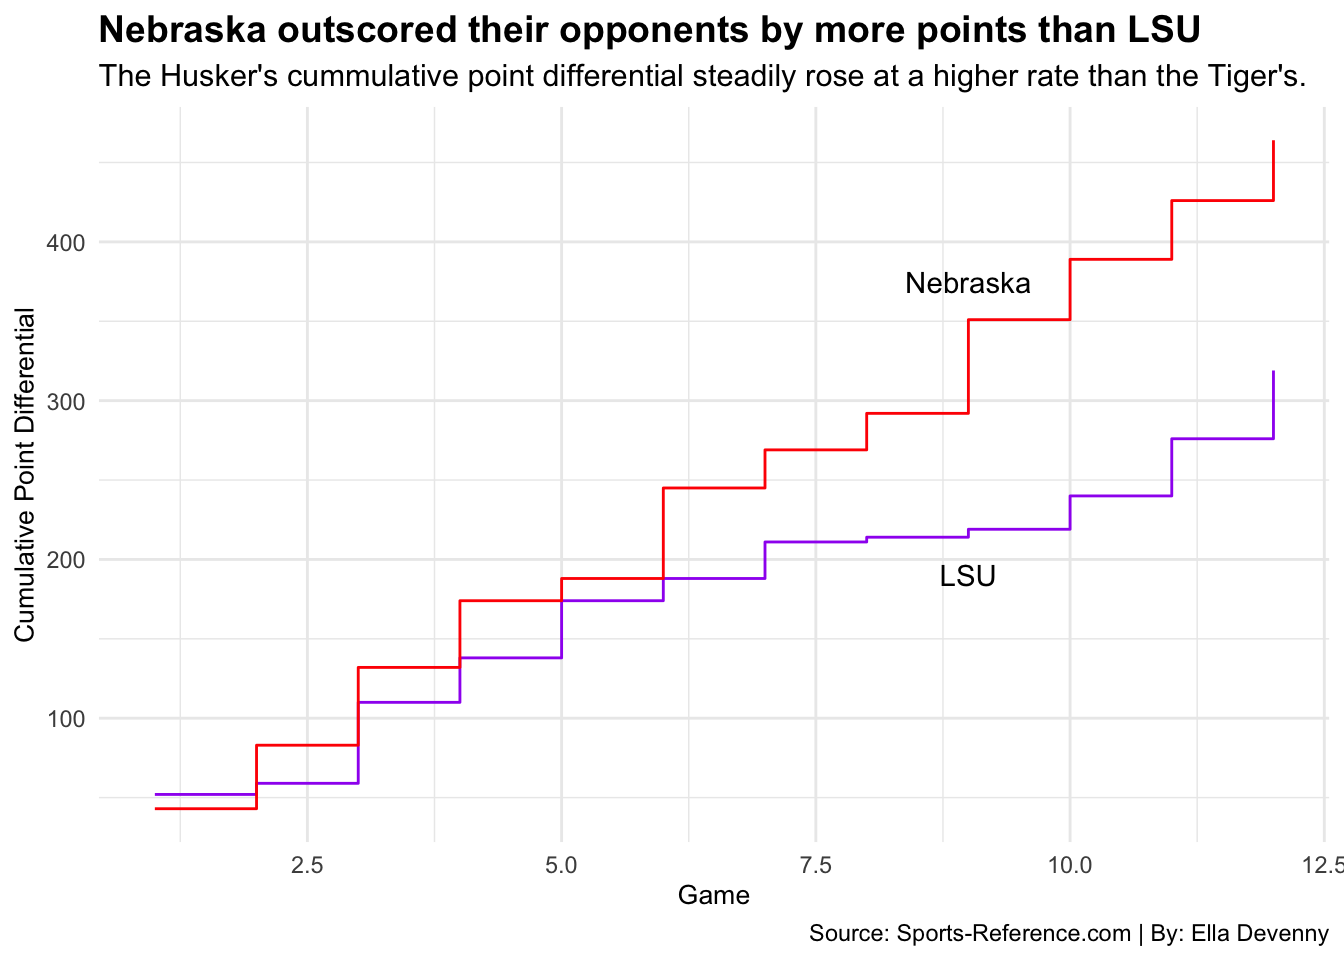
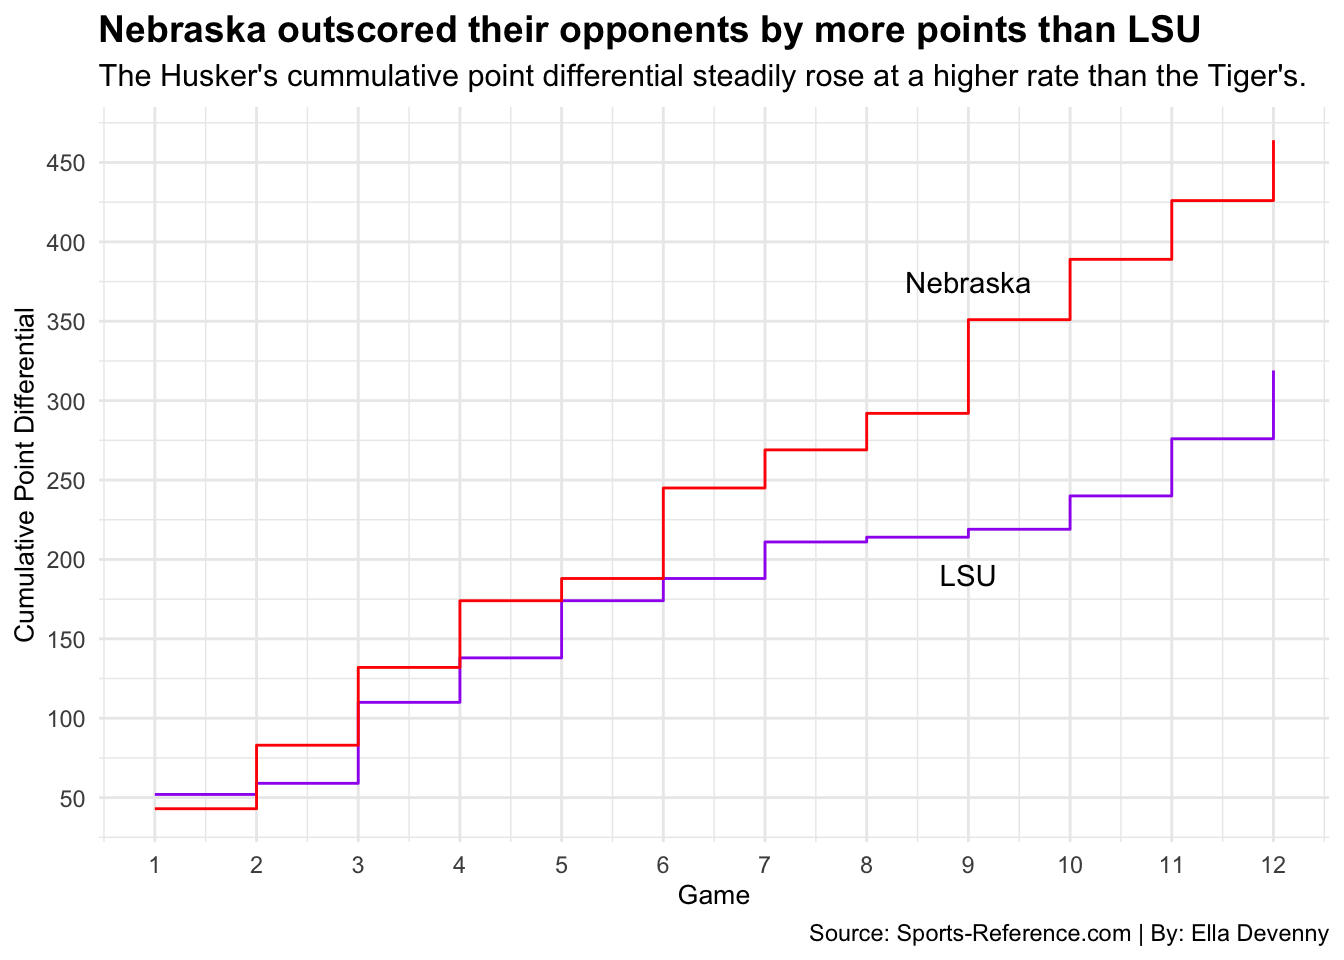
Making edits on my blog.

diff --git a/2021/04/18/the-1995-nebraska-huskers-vs-the-2019-lsu-tigers/index.html b/2021/04/18/the-1995-nebraska-huskers-vs-the-2019-lsu-tigers/index.html
@@ -191,8 +191,8 @@ NEBoffenseyards %&gt;%
 <p>Something to point out, is that Nebraska’s offense yards came primarily from rushing, while LSU’s came primarily from passing. Different offensive strategies, but they both got the job done.</p>
 <pre class="r"><code>barLSU &lt;- ggplot(LSUoffensewide, aes(x=Split, weight=Yards, fill=Type)) +
   geom_bar() +
-  labs(title=&quot;LSU Offense vs. Nebraska Offense: Passing or Rushing?&quot;,
-       subtitle=&quot;The Tiger&#39;s gained more passing yards, where the Husker&#39;s gained more rushing yards.&quot;,
+  labs(title=&quot;Two national champions with characteristically different offenses&quot;,
+       subtitle=&quot;LSU gained more passing yards, where Nebraska gained more rushing yards.&quot;,
        x=&quot;LSU (568.9 yards per game)&quot;,
        y=&quot;Number of Yards&quot;,
        caption = &quot;&quot;) + 
@@ -201,7 +201,7 @@ NEBoffenseyards %&gt;%
     plot.title = element_text(size = 14, face =&quot;bold&quot;),
     axis.title = element_text(size = 10),
     plot.subtitle = element_text(size = 12),
-    panel.grid.minor = element_blank()
+    panel.grid.minor = element_blank(),
   )
   
 
@@ -253,7 +253,9 @@ difflogLSU &lt;- difflogLSU %&gt;%
   theme_minimal() +
   theme(plot.title = element_text(size = 14, face = &quot;bold&quot;),
         axis.title = element_text(size=10),
-        plot.subtitle = element_text(size=11.5))</code></pre>
+        plot.subtitle = element_text(size=11.5)) +
+  scale_x_continuous(breaks = c(1,2,3,4,5,6,7,8,9,10,11,12)) +
+  scale_y_continuous(breaks=c(50,100,150,200,250,300,350,400,450))</code></pre>
 <p><img src="http://elladevenny.github.io/2021/04/18/the-1995-nebraska-huskers-vs-the-2019-lsu-tigers/index_files/figure-html/unnamed-chunk-7-1.png" width="672" /></p>
 <p>Next, I am going to create a dumbbell chart to compare the defensive stats of each team. First, I am going to create a couple new datasets to work with, that show the offensive stats of both teams in one and the defensive stats of both teams in another. This way, I can focus on just the defensive stats for this chart.</p>
 <pre class="r"><code>CombinedStats %&gt;% 
@@ -279,10 +281,11 @@ CombinedStats %&gt;%
     plot.title = element_text(size= 14, face = &quot;bold&quot;),
     axis.title = element_text(size= 10),
     plot.subtitle = element_text(size=12)) +
-  labs(title=&quot;Nebraska&#39;s impressive defense&quot;, 
-       x=&quot;Value&quot;, 
+  labs(title=&quot;Nebraska&#39;s defensive thrashes LSU&#39;s defense&quot;, 
+       x=&quot;Value of Specified Stat&quot;, 
        y=&quot;Defensive Statistic&quot;, 
-       subtitle = &quot;The 1995 Husker&#39;s defense performed better than the 2019 LSU Tiger&#39;s defense.&quot;, 
+       subtitle = &quot;The 1995 Husker&#39;s outperformed the 2019 Tiger&#39;s in every defensive stat.&quot;,
+       
        caption=&quot;Source: Sports-Reference.com | By: Ella Devenny&quot;)</code></pre>
 <p>As you can see from this dumbbell chart, Nebraska and LSU put up very similar numbers in various defensive stats. Obviously for defensive stats it is better to be on the left. So what does all this mean?</p>
 <p>It is important to point out that Nebraska’s defense stats were better than LSU’s in every category based on their average per game. The Husker’s defense allowed a lot fewer rushing yards per game, and fewer passing yards per game as well.</p>
